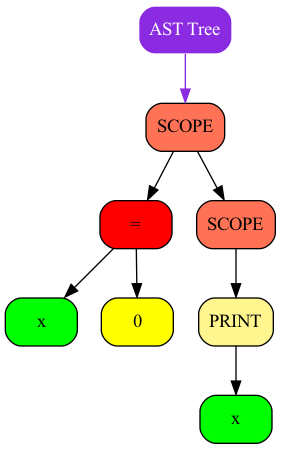
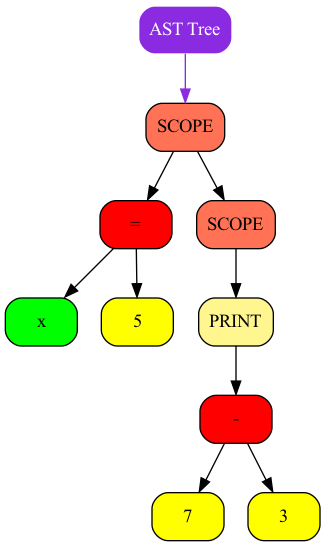
Simple backend works

diff --git a/frontend/inc/Node.hpp b/frontend/inc/Node.hpp
@@ -3,6 +3,7 @@
 
 #include <string>
 #include <fstream>
+#include <unordered_map>
 
 #include "INode.hpp"
 
@@ -22,9 +23,13 @@ class Variable final : public INode
         Variable(const std::string name = "") 
             : INode(Type_t::Variable), name_{name} {}
 
-        void Dump(std::ofstream& graph_file) const override;
+        void        Dump(std::ofstream& graph_file) const override;
 
-        int Execute() const override { return 0; }
+        int         Execute() const override { return value_; }
+
+        std::string GetName() const { return name_; }
+
+        void        SetValue(const int val) { value_ = val; }
 
         ~Variable()
         {
@@ -32,6 +37,8 @@ class Variable final : public INode
         }
 
     private:
+
+        int value_ = 0;
 
         std::string name_ = "";
 };
@@ -47,7 +54,7 @@ class Digit final : public INode
 
         void Dump(std::ofstream& graph_file) const override;
 
-        int Execute() const override { return 0; }
+        int Execute() const override { return value_; }
 
         ~Digit()
         {
@@ -70,7 +77,7 @@ class BinOp final : public INode
 
         void Dump(std::ofstream& graph_file) const override;
 
-        int Execute() const override { return 0; }
+        int Execute() const override;
 
         ~BinOp()
         {
@@ -147,6 +154,8 @@ class Scope final : public INode
         INode* left_    = nullptr;
 
         Scope* right_   = nullptr;
+
+        std::unordered_map<std::string, Variable*> symtab_{};
 };
 
 //======================================================================================//
@@ -160,7 +169,21 @@ class Statement final : public INode
 
         void Dump(std::ofstream& graph_file) const override;
 
-        int Execute() const override { return 0 ; }
+        int Execute() const override 
+        { 
+            switch(type_)
+            {
+                case KeyWords::Print:
+                {
+                    std::cout << left_->Execute() << std::endl;
+                }
+
+                default:
+                    return 0;
+            } 
+
+            return 0;
+        }
 
         ~Statement()
         {

diff --git a/frontend/src/Node.cpp b/frontend/src/Node.cpp
@@ -114,6 +114,53 @@ std::string GetKeyWordColor(const KeyWords type)
 
 //======================================================================================//
 
+int BinOp::Execute() const
+{
+    switch(operator_type_)
+    {
+        case Operators::Asg:
+        {
+            auto left = static_cast<Variable*>(left_);
+
+            int res = right_->Execute();
+
+            left->SetValue(right_->Execute());
+
+            return left->Execute();
+        }
+
+        case Operators::Plus:
+            return left_->Execute() + right_->Execute();
+
+        case Operators::Minus:
+            return left_->Execute() - right_->Execute();
+
+        case Operators::Mult:
+            return left_->Execute() * right_->Execute();
+
+        case Operators::Divide:
+        {
+            int right_res = right_->Execute();
+
+            if (right_res == 0)
+            {
+                std::cerr << "division by zero" << std::endl;
+
+                return 0;
+            }
+            
+            return left_->Execute() / right_res;
+        }
+
+        default:
+            std::cout << "to be continued" << std::endl;
+    }
+
+    return 0;
+}
+
+//======================================================================================//
+
 void Digit::Dump(std::ofstream& graph_file) const
 {
     #ifdef DUMP

diff --git a/frontend/inc/AST.hpp b/frontend/inc/AST.hpp
@@ -33,6 +33,8 @@ class AST final
 
         Variable*   MakeVar(std::string name);
 
+        // Assignment* MakeAsg(Variable* left = nullptr, INode* right = nullptr);
+
         BinOp*      MakeBinOp(Operators op_type, INode* left = nullptr, INode* right = nullptr);
 
         LogOp*      MakeLogOp(LogicalOperator log_type, INode* left = nullptr, INode* right = nullptr);

diff --git a/backend/inc/executor.hpp b/backend/inc/executor.hpp
@@ -32,7 +32,7 @@ class Executor
 
     private:
 
-        std::unordered_map<std::string, int> symtab;
+        std::unordered_map<std::string, int> symtab{};
 
 };
 

diff --git a/frontend/inc/types.hpp b/frontend/inc/types.hpp
@@ -28,7 +28,7 @@ enum class Operators {
     Minus,
     Mult,
     Divide,
-    Asg,
+    Asg
 };
 
 enum class LogicalOperator {
